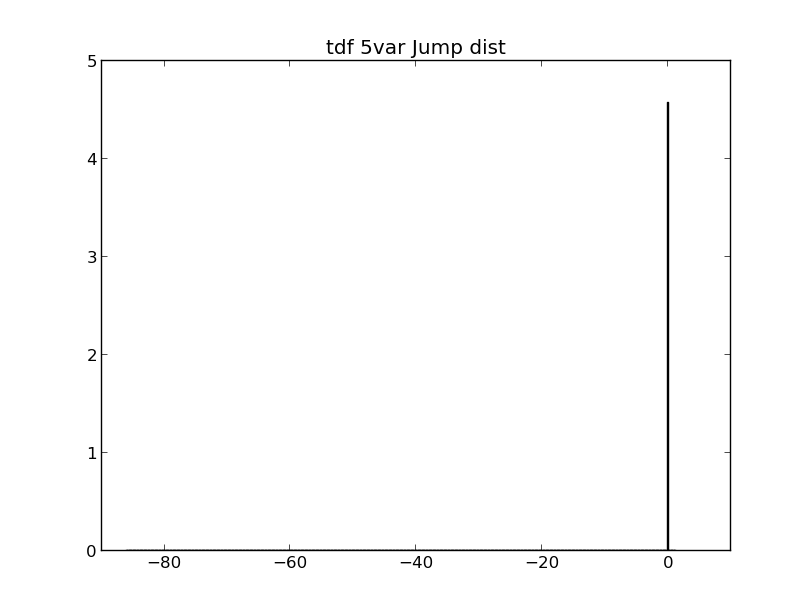
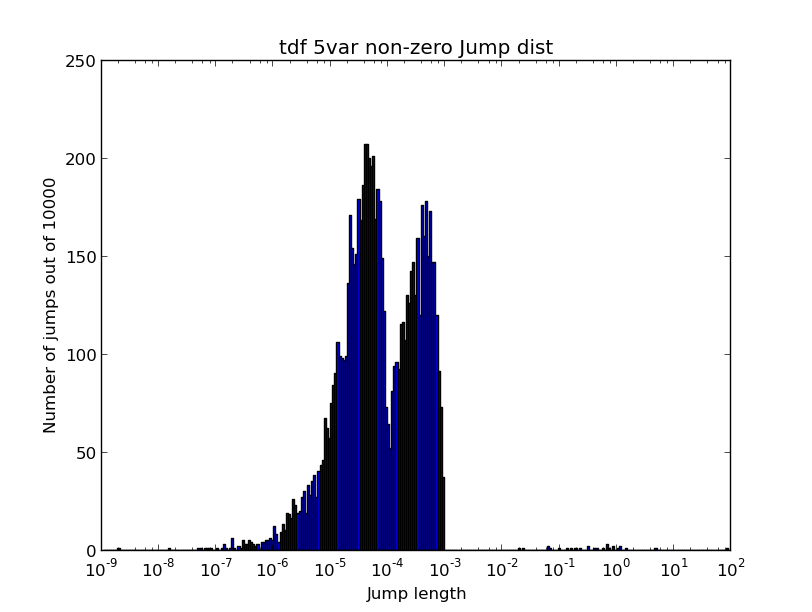
fixed sample and jump graphs

diff --git a/ppUtils.py b/ppUtils.py
@@ -3,6 +3,7 @@ import numpy as np
 import sys
 from matplotlib import pyplot as plt
 from itertools import groupby
+import matplotlib
 
 langs = ["Venture", "Bugs"]
 
@@ -190,12 +191,45 @@ def dispSamples(fn):
       if not samples == []:
         jumps.append(s - samples[-1])
       samples.append(s)
-  plt.hist(samples,400, normed=True)
-  plt.title("tdf 5var Sample dist")
+
+  fig, ax = plt.subplots()
+  ax.hist(samples,1000)
+  ax.set_title("tdf 5var Sample dist")
+  #ax.set_xscale("log")
+  ax.set_xticks(range(1,10))
+  ax.get_xaxis().set_major_formatter(matplotlib.ticker.ScalarFormatter())
+  ax.set_xlim([1,10])
+  ax.set_xlabel("Sample")
+  ax.set_ylabel("Number of samples out of 10000")
   plt.show()
-  plt.hist(jumps,400, normed=True)
-  plt.title("tdf 5var Jump dist")
+
+  print max(map(abs,jumps)), min([x for x in map(abs,jumps) if x > 0])
+  plt.hist(map(lambda x: abs(x),jumps),bins=np.logspace(-9, 2, 300))
+  plt.title("tdf 5var non-zero Jump dist")
+  plt.xscale('log')
+  #plt.yscale('log')
+  plt.xlabel("Jump length")
+  plt.ylabel("Number of jumps out of 10000")
+  #plt.xlim(0.00000001,100)
   plt.show()
+
+def plotConsSamps(fn, tp = 0):
+  samps = []
+  with open(fn, 'r') as f:
+    for line in f:
+      if tp == 0:
+        samps.append(float(line.strip()))
+      elif tp == 1:
+        c, v = map(float, line.strip().split())
+        samps += [v]*c
+
+  plt.plot(samps)
+  plt.title("Tdf sample evolution")
+  plt.xlabel("Iteration")
+  plt.ylabel("Current estimate")
+  plt.yscale('log')
+  plt.show()
+
 
 if __name__ == "__main__":
   #title = "Model: " + sys.argv[1].title() + "-" + sys.argv[2].title()
@@ -206,3 +240,4 @@ if __name__ == "__main__":
   #print readData("PP_Models/tdf/tdf", 4)
   #showPerfStats("tdf/Venture/rtStats")
   dispSamples("tdf/Venture/tdf5Samples")
+  #plotConsSamps("tdf/Venture/tdfSamples")
